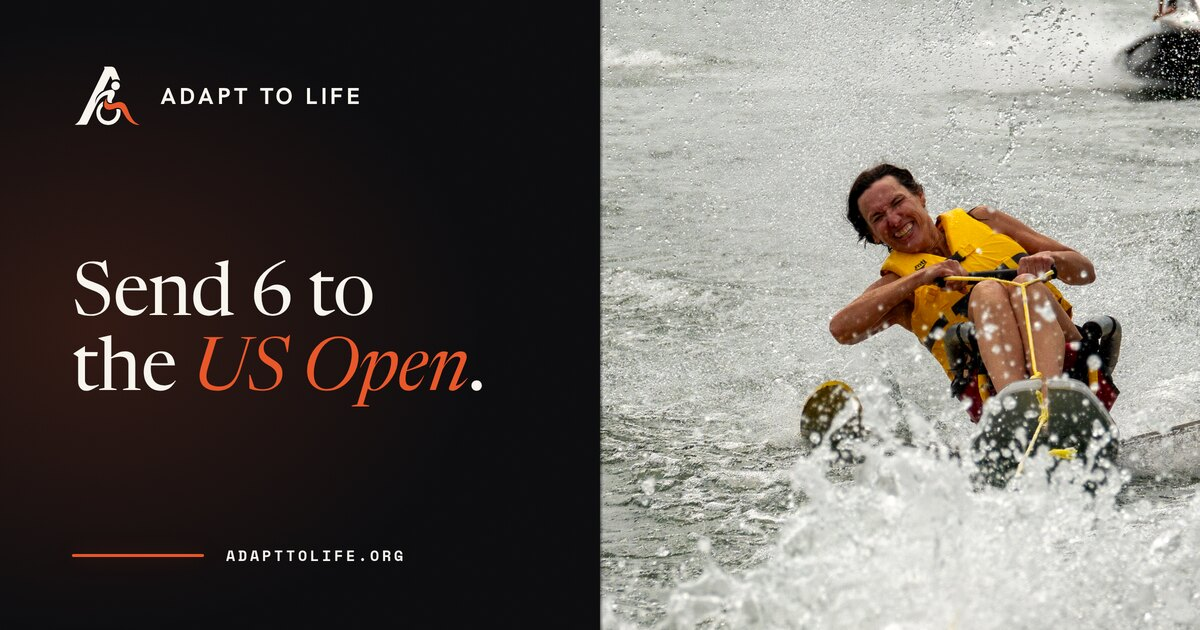
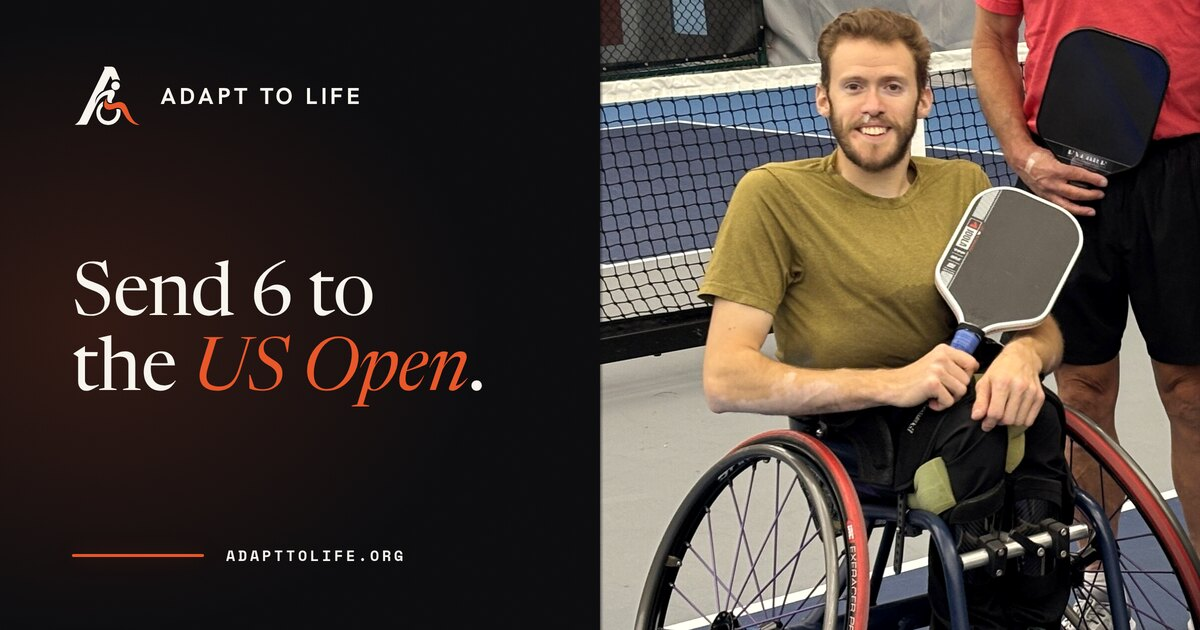
fix(share): the US Open is pickleball, and the card says so
Alec: "the image you have for send six to the us open is a picture of me water
skiing. it makes more sense to use a picture of pickleball since it's actually
pickleball."

He is right, and the page has said so the whole time: send-6.html's own
description reads "six adaptive pickleball athletes to the US Open in Naples."
I inferred the sport from the photo library, which is full of water, instead of
reading the page I was building a card for. The wrong claim had spread into a
code comment, the review tour and the alt text; all three are corrected, and
the generator now carries the rule at the point of the mistake.

Send 6 now uses a wheelchair pickleball frame from the October event photos.

The photograph Alec sent is the right picture and cannot be used: it is shot
through a chain-link fence that sits in sharp focus across the athlete, and no
crop clears it, because the fence forms an X through the middle of the frame. At
the 150px the panel occupies in a chat thread the fence reads as a dark cross
over her. Checked at that size rather than assumed.

Also ruled out a warmer frame from the same set, on our own rule: a host venue's
logo was legible on a shirt in it, and that is the same objection that kept the
popcorn vendor's bag off the popcorn card. docs/CONTENT.md now carries both
rules, since neither was written down and both were re-derived this session.

Verified on staging, full site check green, 6 distinct cards on the wire, every
photo card sharp.

diff --git a/public/review.html b/public/review.html
@@ -75,7 +75,7 @@
   <ol class="rv-steps">
     <li><a href="/"><span><span class="t">Home</span><span class="d">Carries the default card, which every page without its own now falls back to. The promise line, and Karen on the water.</span></span></a></li>
     <li><a href="/donate"><span><span class="t">Donate</span><span class="d">"Put an athlete in the game," beside the kids on the court. This is the link that gets sent the most, so it stopped sharing a generic card.</span></span></a></li>
-    <li><a href="/send-6"><span><span class="t">Send 6 to the US Open</span><span class="d">The US Open is an adaptive water-ski event, so the water shot belongs to this one.</span></span></a></li>
+    <li><a href="/send-6"><span><span class="t">Send 6 to the US Open</span><span class="d">Adaptive pickleball, which is what the US Open in Naples actually is. I had a water-ski shot here first, because I inferred the sport from the photo library instead of reading this page, which says "six adaptive pickleball athletes" in its own description. Corrected, and the generator now carries a note so it does not happen again.</span></span></a></li>
     <li><a href="/popcorn"><span><span class="t">Popcorn</span><span class="d">The card in your screenshot. Paper rather than a photo: the only popcorn imagery we own is Double Good's branded bag, and a partner's logo does not belong on our share card.</span></span></a></li>
     <li><a href="/hustle-and-heart"><span><span class="t">Hustle &amp; Heart Fund</span><span class="d">"Every dollar goes to an athlete," the page's own headline.</span></span></a></li>
     <li><a href="/ways-to-give"><span><span class="t">Ways to Give</span><span class="d">"Every road here ends on a court."</span></span></a></li>
@@ -83,7 +83,7 @@
 
   <p class="rv-minor"><strong>One honest limit.</strong> A crawler needs an absolute URL for the image, so every page points at <code>adapttolife.org</code> rather than at staging. That means if you paste a staging link into a text thread you will see the OLD card, because the new files only exist here until this ships. The cards above are the real files on this host, at the real size, which is as close as the test gets before you say go.</p>
 
-  <p class="rv-minor"><strong>The photographs are the Drive originals now.</strong> The copies on the site are sized for a web page, and a card crops much harder than a page does, so every one of them was being quietly enlarged. Karen's shot went from 1600 to 3601 pixels wide and the gym shot from 2048 to 6016, which is the difference between soft and sharp on a phone. The masters live outside the deployed folder, so visitors download nothing extra. One is still pending: your own water-ski shot exists only as a web-sized copy here, so Send 6 borrows Karen's until the original lands.</p>
+  <p class="rv-minor"><strong>The photographs are the Drive originals now.</strong> The copies on the site are sized for a web page, and a card crops much harder than a page does, so every one of them was being quietly enlarged. Karen's shot went from 1600 to 3601 pixels wide and the gym shot from 2048 to 6016, which is the difference between soft and sharp on a phone. The masters live outside the deployed folder, so visitors download nothing extra. Send 6 now uses a wheelchair pickleball frame from your October event photos. Worth knowing what that is: an athlete at an indoor facility, not your six athletes at Naples. The shot you sent from Court 50 is the right picture, but it was taken through a chain-link fence that sits in sharp focus across the athlete, and at the size a phone draws this card the fence reads as a dark X over her. A courtside frame from inside the gate, at that same tournament, would beat everything here.</p>
 
   <p class="rv-minor"><strong>Five checks now run on every deploy.</strong> A headline too small to survive the phone-sized downscale, type overlapping the photograph, a card over the 300KB budget that WhatsApp silently refuses to preview, a headline that stops matching its page's headline, or a crop that would enlarge its own source: each one fails the build.</p>
 

diff --git a/public/send-6.html b/public/send-6.html
@@ -16,13 +16,13 @@
 <meta property="og:image" content="https://adapttolife.org/images/og/send-6.jpg">
 <meta property="og:image:width" content="1200">
 <meta property="og:image:height" content="630">
-<meta property="og:image:alt" content="Send 6 to the US Open. An adaptive water-skier mid-run, skis throwing spray.">
+<meta property="og:image:alt" content="Send 6 to the US Open. A wheelchair pickleball player with his paddle, courtside.">
 <meta property="og:url" content="https://adapttolife.org/send-6">
 <meta name="twitter:card" content="summary_large_image">
 <meta name="twitter:title" content="Send 6 to the US Open | Adapt To Life">
 <meta name="twitter:description" content="Six adaptive athletes in Naples, nothing out of pocket.">
 <meta name="twitter:image" content="https://adapttolife.org/images/og/send-6.jpg">
-<meta name="twitter:image:alt" content="Send 6 to the US Open. An adaptive water-skier mid-run, skis throwing spray.">
+<meta name="twitter:image:alt" content="Send 6 to the US Open. A wheelchair pickleball player with his paddle, courtside.">
 <link rel="preconnect" href="https://fonts.googleapis.com">
 <link rel="preconnect" href="https://fonts.gstatic.com" crossorigin>
 <link href="https://fonts.googleapis.com/css2?family=Newsreader:ital,opsz,wght@0,6..72,400;0,6..72,500;0,6..72,600;1,6..72,400;1,6..72,500&family=Hanken+Grotesk:wght@400;500;600;700&family=Space+Mono:wght@400;700&display=swap" rel="stylesheet">

diff --git a/docs/CONTENT.md b/docs/CONTENT.md
@@ -151,6 +151,11 @@ sees while building the site. It is generated, never exported by hand:
   writer of `og:image` tags.
 - Photographs are of real athletes, ours, and are cropped rather than altered. Nothing generated
   stands in for an athlete.
+- **A card's photograph must match the page's actual sport.** Read the page; never infer the sport
+  from whichever images happen to be at hand. The first Send 6 card showed water-skiing because the
+  photo library is full of it, while the page has always said "six adaptive pickleball athletes".
+- **No other organisation's branding on our card.** It applies to a partner's product (the popcorn
+  vendor's bag) and to a host venue's logo on a shirt in the background alike.
 - `scripts/check-site.mjs` fetches every card off the deployed host on every deploy: it must resolve,
   be absolute, carry alt text, match its declared 1200x630, and fit the 300KB budget above which
   WhatsApp silently drops the preview.
